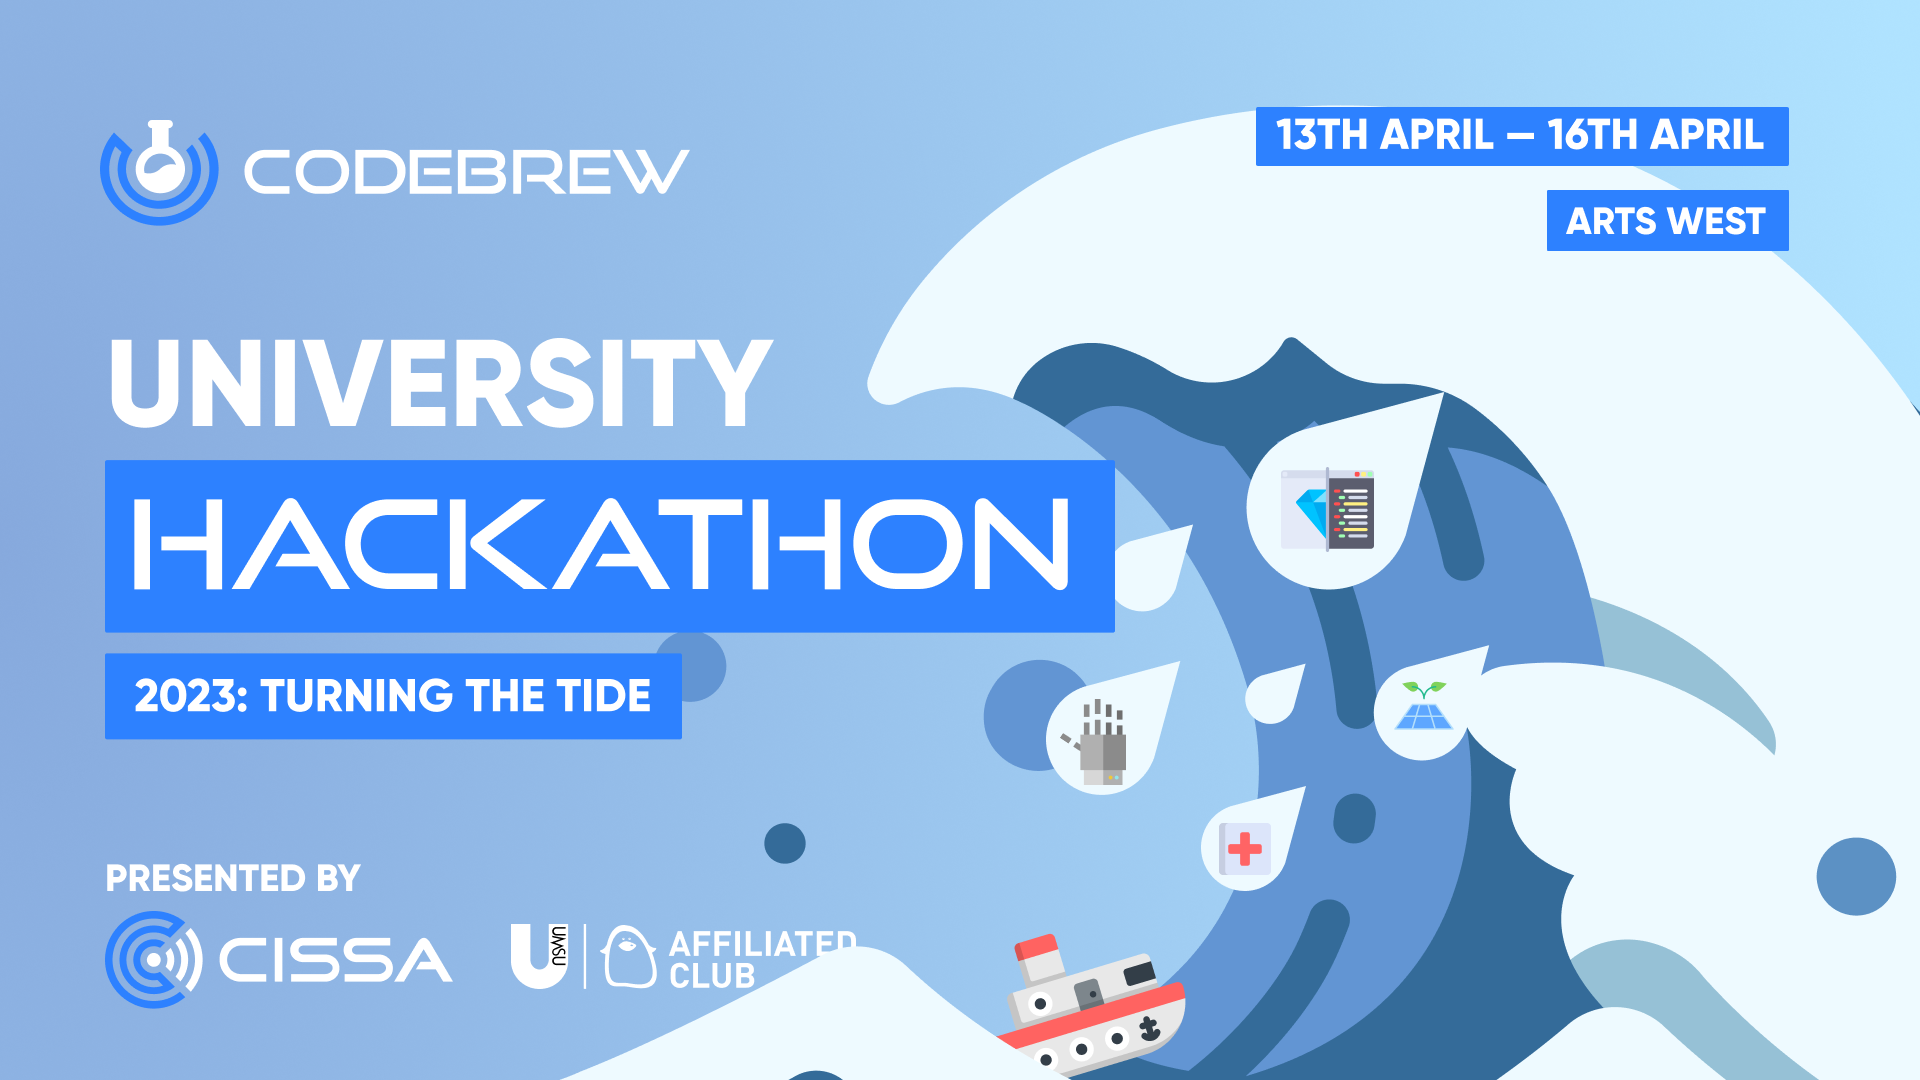
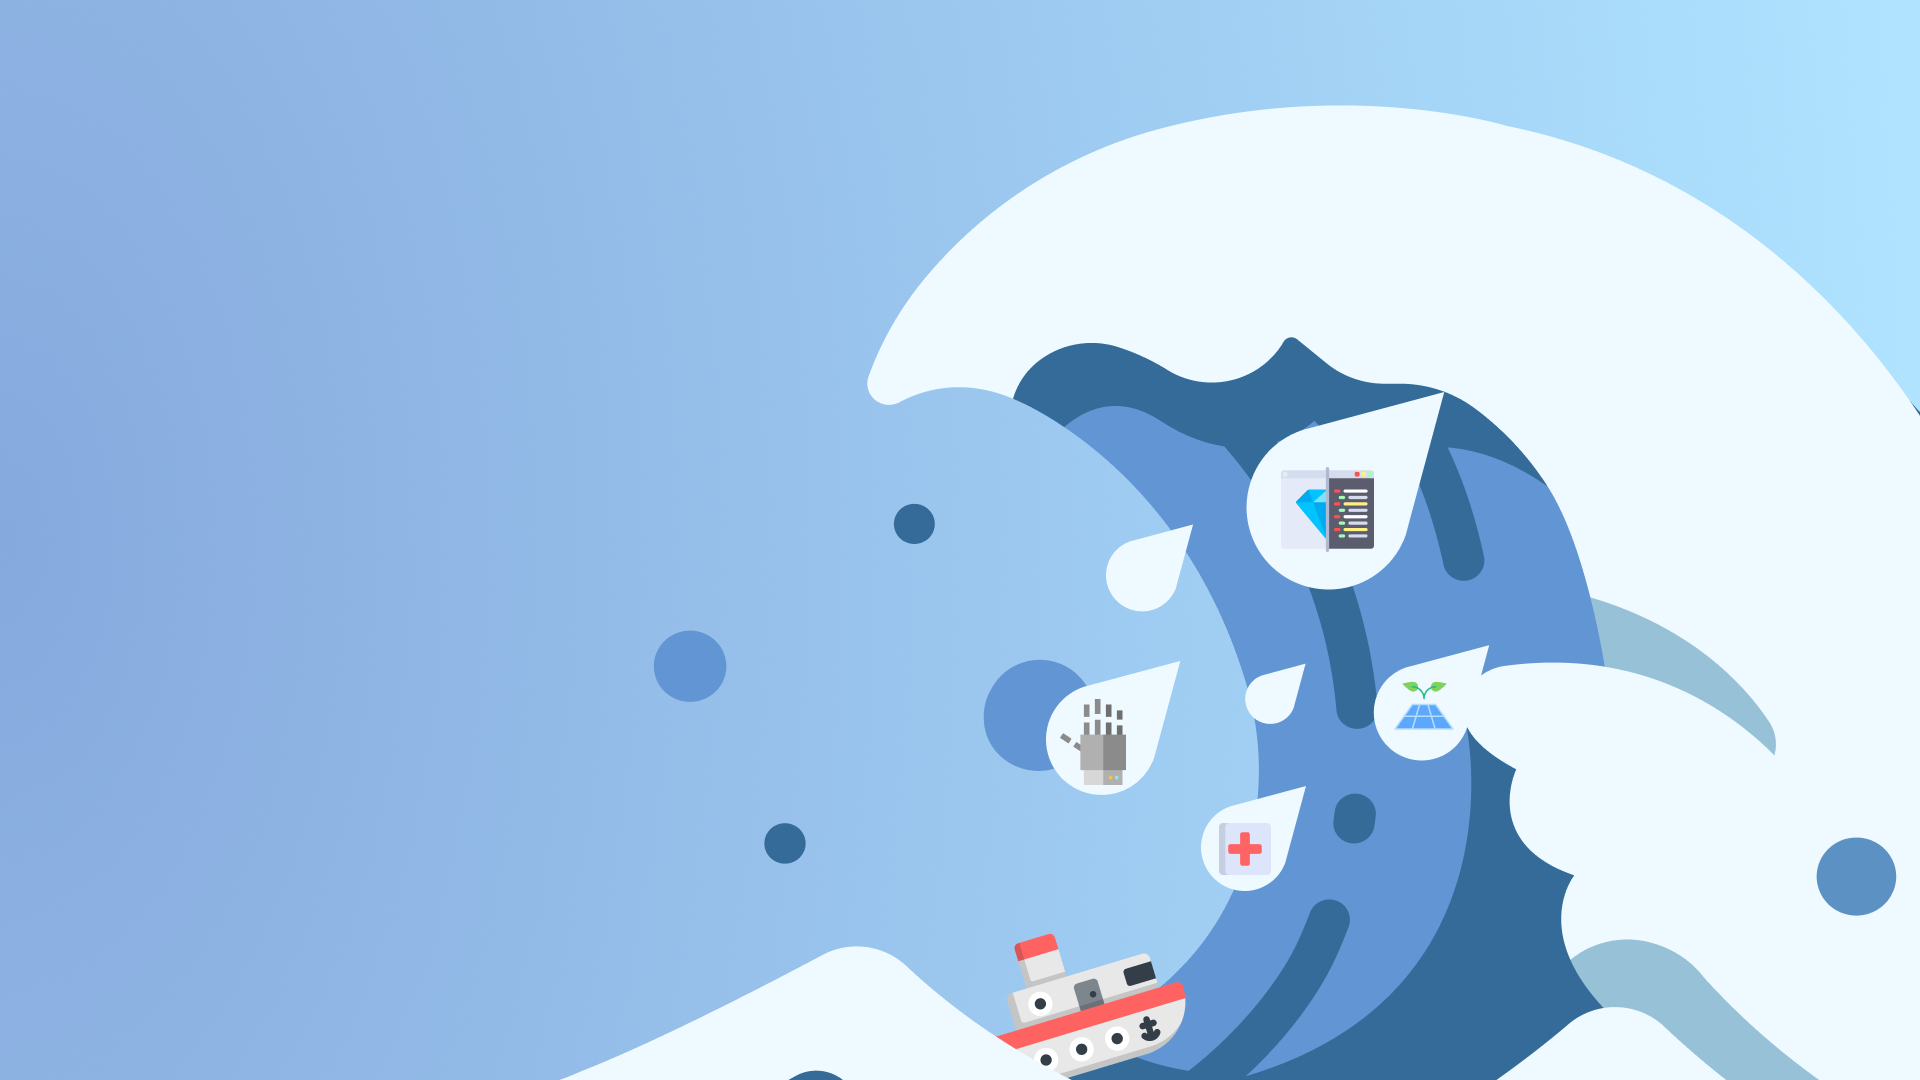
updated graphics

diff --git a/index.html b/index.html
@@ -133,7 +133,7 @@
 			TURNING THE TIDE
 		</div>
 		<div id="banner-text">
-			<h3 style="color: black">13 April 2023 - 16 April 2023</h3>
+			<h3>13 April 2023 - 16 April 2023</h3>
 			<div id="banner-description">
 				<!-- <span id="countdown">&hellip;</span> -->
 				<h2>CISSA's annual flagship hackathon for students.</h2>
@@ -264,15 +264,15 @@
 		<p>This year, participants will brainstorm ideas under 3 different tracks for the given theme.</p>
 		<div class="row">
 			<div class="col-md-4 track-section" id="carbon-and-energy" onclick="showDescription('carbon-and-energy')">
-				<img src="./images/carbon-and-energy.svg" class="track-image"/>
+				<img src="./images/2023-track-susenv.png" class="track-image"/>
 				<h3>Sustainability and Environment</h3>
 			</div>
 			<div class="col-md-4 track-section" id="waste" onclick="showDescription('waste')">
-				<img src="./images/waste.svg" class="track-image"/>
+				<img src="./images/2023-track-disinv.png" class="track-image"/>
 				<h3>Disruptive and innovative technologies</h3>
 			</div>
 			<div class="col-md-4 track-section" id="food-and-nutrition" onclick="showDescription('food-and-nutrition')">
-				<img src="./images/food-and-nutrition.svg" class="track-image"/>
+				<img src="./images/2023-track-helsos.png" class="track-image"/>
 				<h3>Health and Society</h3>
 			</div>
 		</div>
@@ -300,11 +300,11 @@
 		</div>
 		<br/>
 		<ul id="schedule-notes">
-			<span class="note-star">*</span> <b>Friday 22nd:</b> Floating mentoring and hacking continues throughout the day.
+			<span class="note-star">*</span> <b>Friday 14th:</b> Floating mentoring and hacking continues throughout the day.
 			<hr/>
-			<span class="note-star">*</span> <b>Friday 22nd:</b> Arts Wests stays open overnight. However, you will not be able to re-enter if you leave after 9:30 pm.
+			<span class="note-star">*</span> <b>Friday 14th:</b> Arts Wests stays open overnight. However, you will not be able to re-enter if you leave after 9:30 pm.
 			<hr/>
-			<span class="note-star">*</span> <b>Saturday 23rd:</b> Arts West stays open from Friday night. Floating mentoring continues until 3 pm.
+			<span class="note-star">*</span> <b>Saturday 15th:</b> Arts West stays open from Friday night. Floating mentoring continues until 3 pm.
 		</ul>
 	</div>
 </section>

diff --git a/assets/css/main.css b/assets/css/main.css
@@ -153,7 +153,6 @@ button > a:hover {
 #theme {
   font-family: 'goodtimes';
   font-size: calc(32px + 1vw);
-  color: black;
 }
 
 #banner-content {
@@ -163,7 +162,6 @@ button > a:hover {
 #banner-description {
   margin-top: 3%;
   width:50%;
-  color: black;
 }
 
 #date {
@@ -220,7 +218,6 @@ button > a:hover {
 
 .event-socials {
   text-align: center;
-  color: black;
 }
 
 .event-social.fab {
@@ -240,7 +237,7 @@ button > a:hover {
 }
 
 .event-social {
-  color: #FFFFFF !important;
+  color: #000000 !important;
   transition: all 0.3s ease 0s;
 }
 
